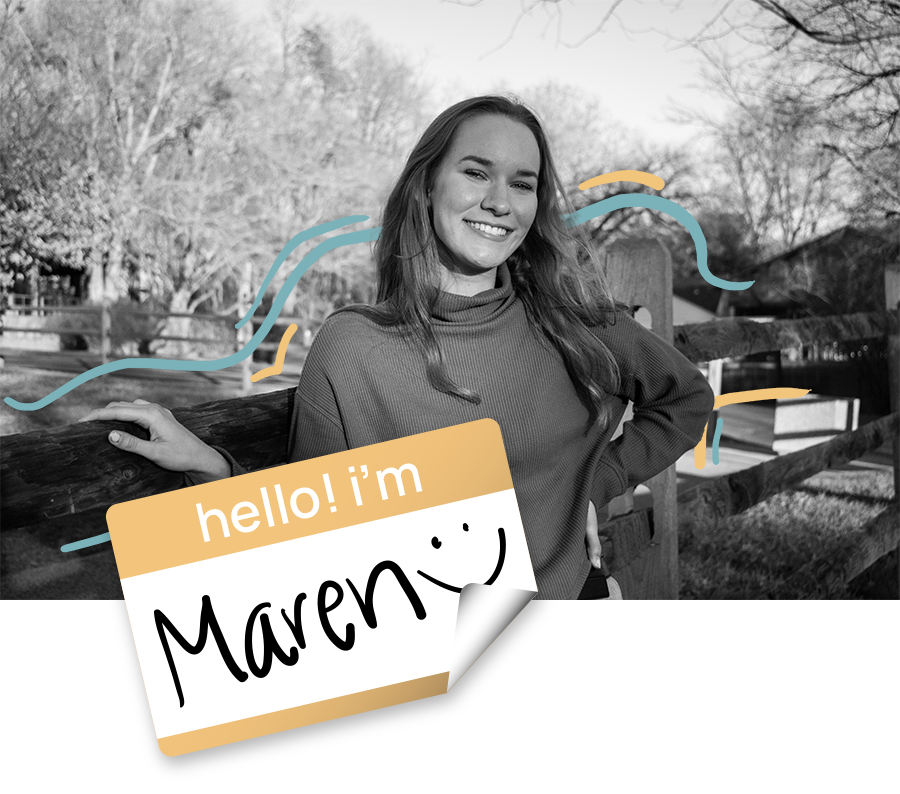
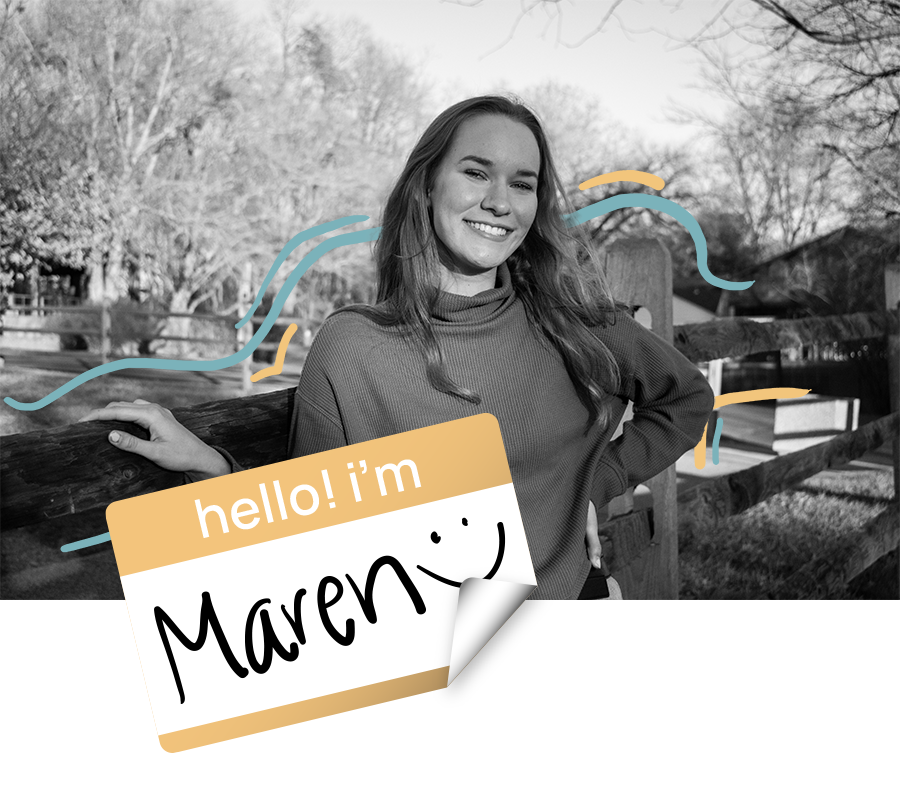
fixed typos, updated sticker illos

diff --git a/sfc-timeline.html b/sfc-timeline.html
@@ -57,7 +57,7 @@
 
                 <p class="subheading">the process</p>
 
-                <p>I began by sketching out the current timeline and noting which features were problematic when being used as an embedded component – the fact that it was <strong>full-screen</strong> broke up the article, it appeared <strong> on mobile devices</strong> and there were a few <strong>technical functionality issues</strong>. With those notes in mind, I then began to reimagine what the component could look like if it were more condensed.</p>
+                <p>I began by sketching out the current timeline and noting which features were problematic when being used as an embedded component: The fact that it was <strong>full-screen</strong> broke up the article, it appeared <strong>cramped on mobile devices</strong> and there were a few <strong>technical functionality issues</strong>. With those notes in mind, I then began to reimagine what the component could look like if it were more condensed.</p>
 
                 <div class="full-width-image side-by-side">
                     <img src="images/timeline/timeline-sketch-1.jpg">

diff --git a/sfc-flour-water.html b/sfc-flour-water.html
@@ -53,7 +53,7 @@
 
                 <p class="pullquote">The goal: to create a fun, visually exciting piece that showcases the vastness of local restaurant Flour + Water’s pasta shape encyclopedia.</p>
 
-                <p>I worked on this project during my internship at the San Francisco Chronicle, where I was embedded on the digital design team. Part of a larger pasta story package by <em>The Chronicle’s</em> food and wine team, this particular story focuses on the 83 pasta shapes a famous SF restaurant made and highlights how six of them are made.</p>
+                <p>I worked on this project during my internship at the <em>San Francisco Chronicle</em>, where I was embedded on the digital design team. Part of a larger pasta story package by <em>The Chronicle’s</em> food and wine team, this particular story focuses on the 83 pasta shapes a famous SF restaurant made and highlights how six of them are made.</p>
 
                 <br>
                 <br>

diff --git a/home.html b/home.html
@@ -44,7 +44,7 @@
 
             <div class="projects">
 
-                <a class="homepage-project-link long web all" href="sfc-flour-water.html">
+                <a class="homepage-project-link long web ux/ui all" href="sfc-flour-water.html">
                     <div class="project-card">
                     <div id="pasta" class="project-image"></div>
                     <h3 class="project-title"><em>San Francisco Chronicle</em> pasta project</h3>
@@ -62,7 +62,7 @@
                     </div>
                 </a>
 
-                <a class="homepage-project-link long web all" href="sfc-timeline.html">
+                <a class="homepage-project-link long web ux/ui all" href="sfc-timeline.html">
                     <div class="project-card">
                     <div id="timeline" class="project-image"></div>
                     <h3 class="project-title"><em>San Francisco Chronicle</em> timeline redesign</h3>
